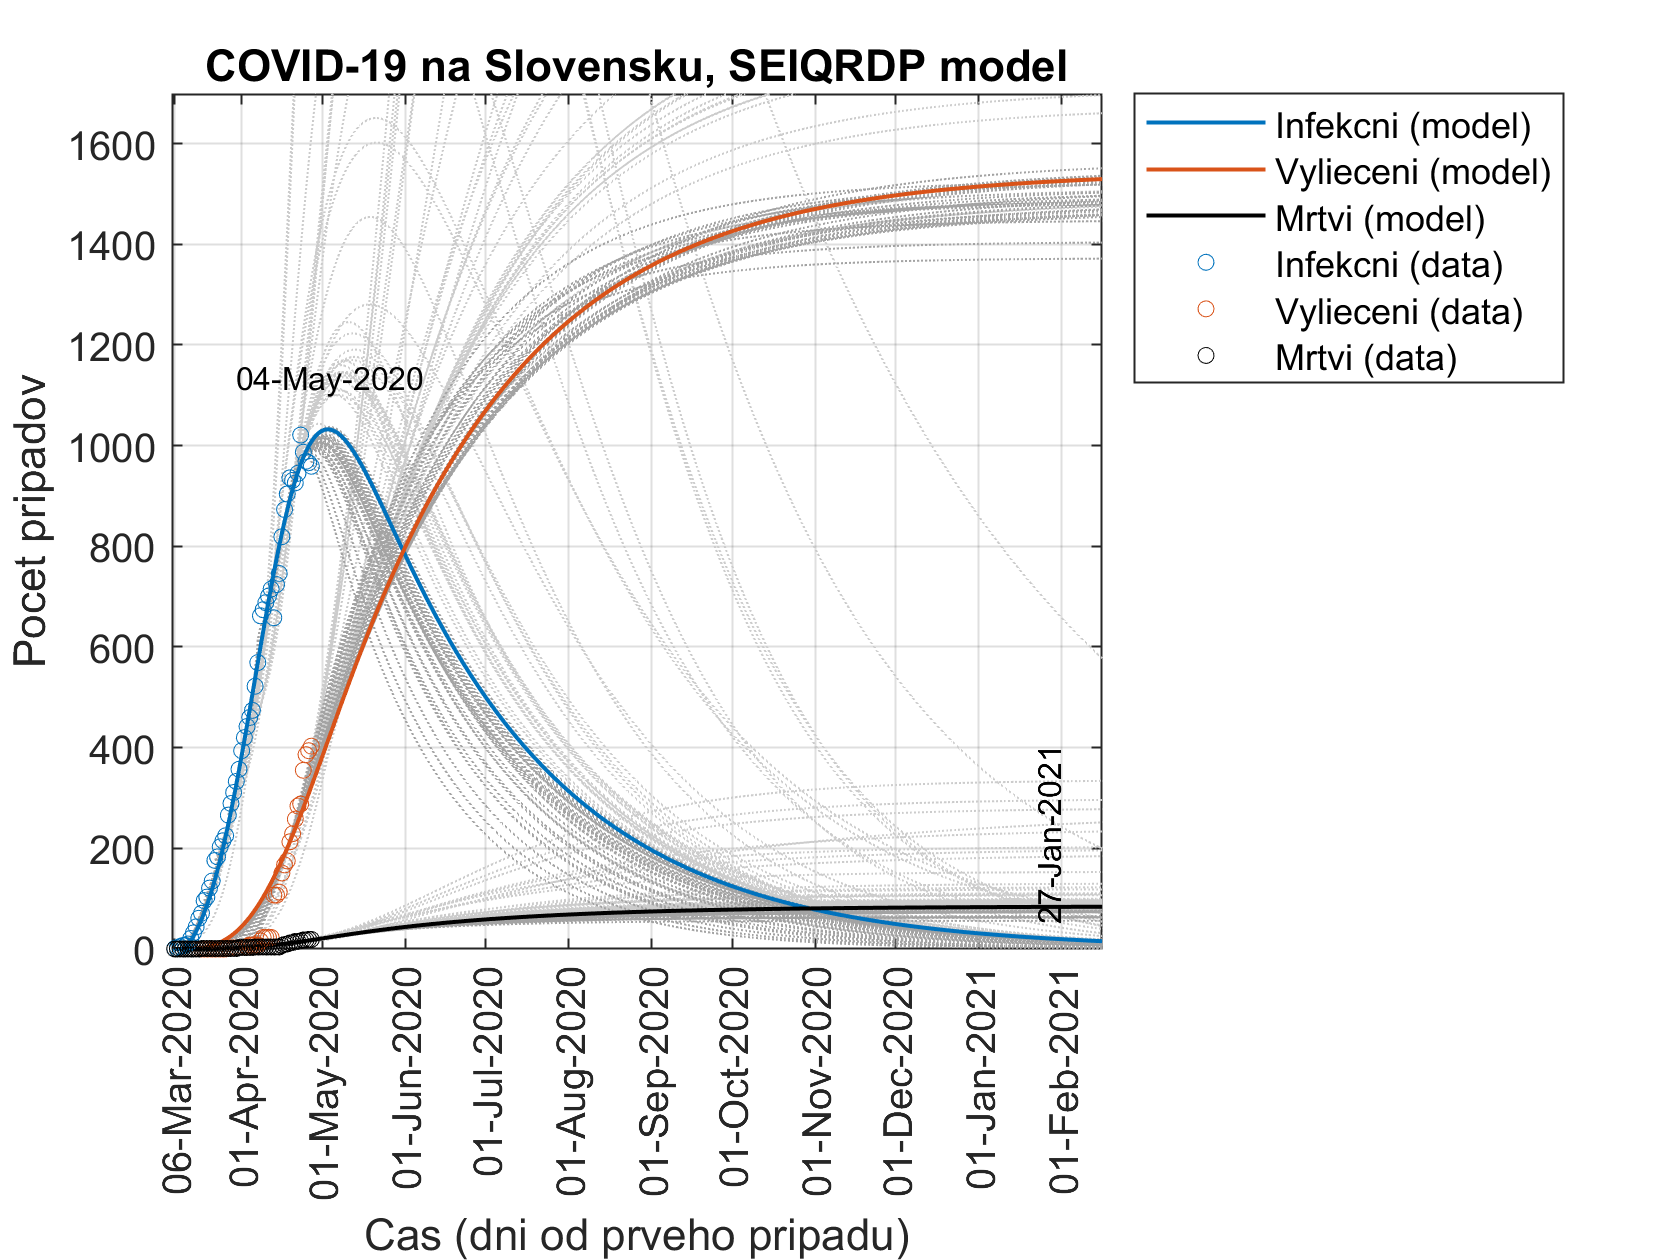
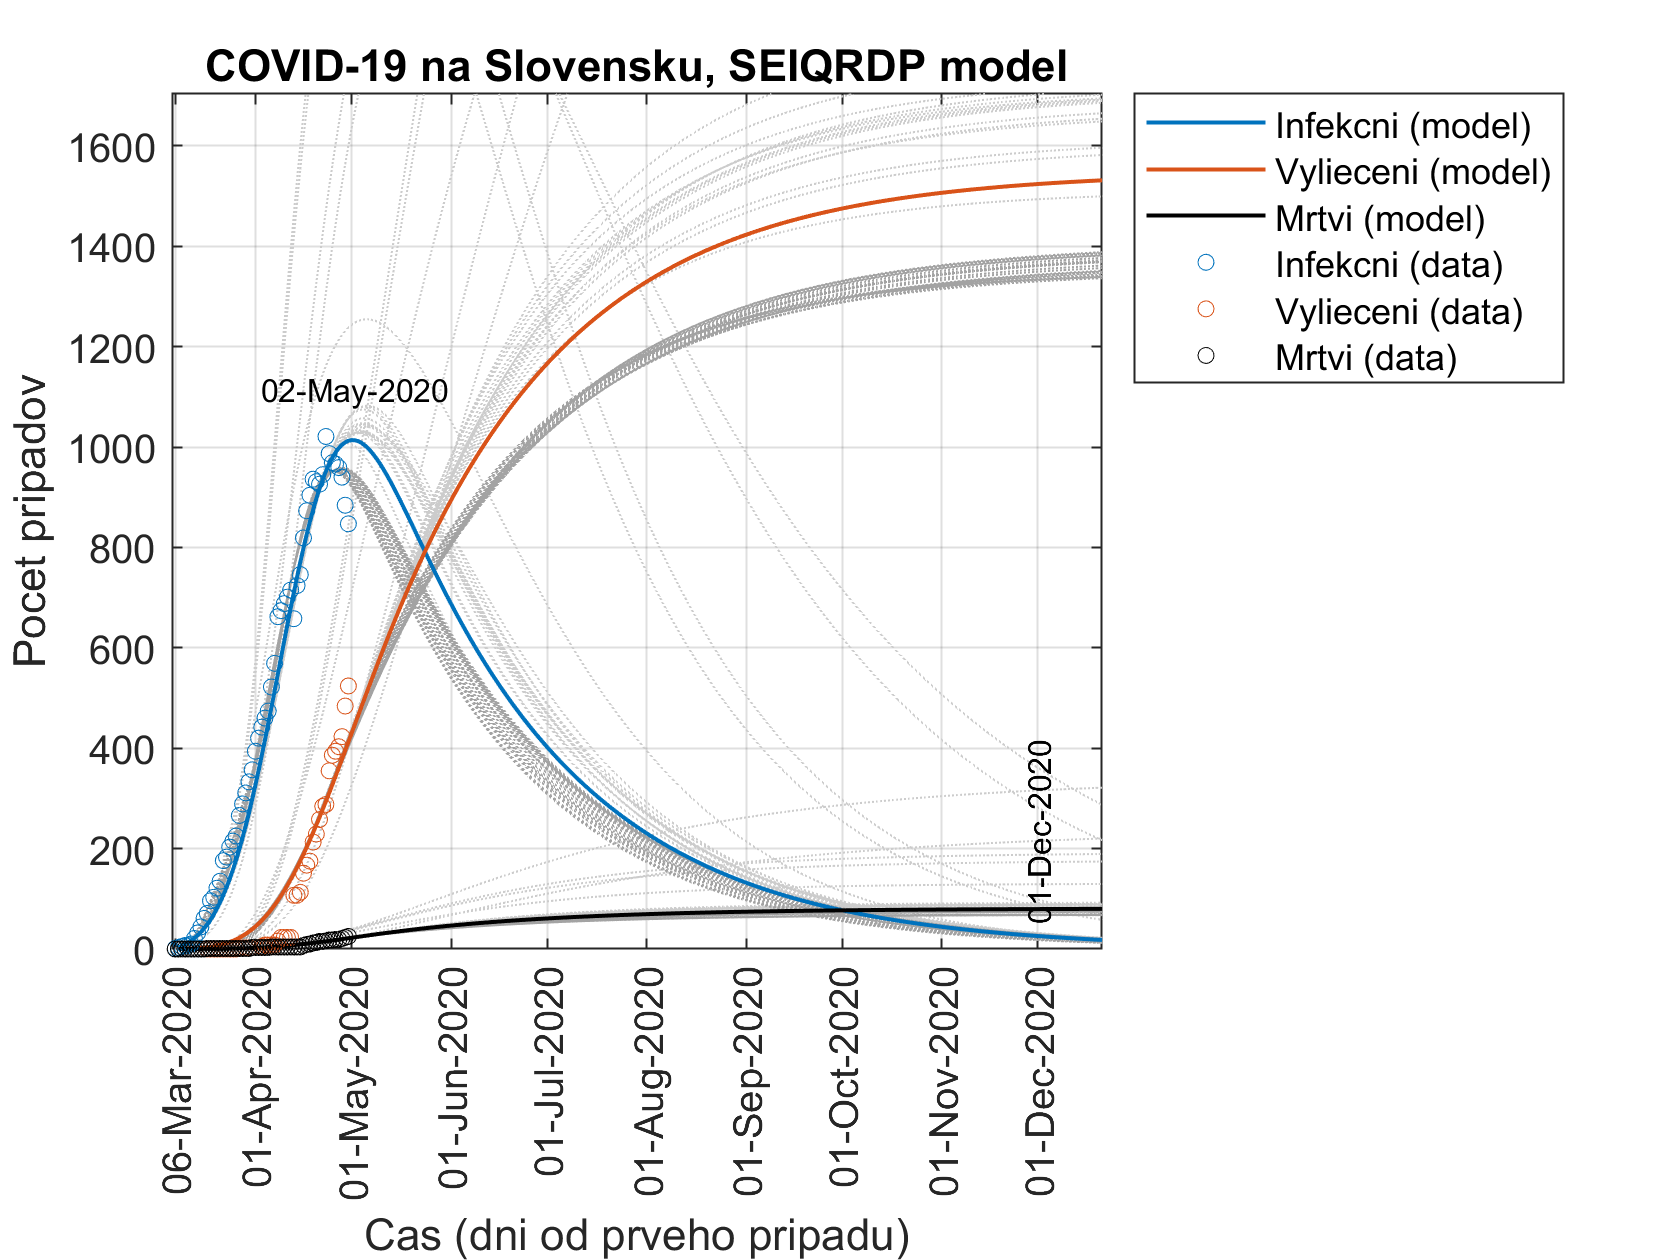
DAily update

diff --git a/SEIQRDP_ID.m b/SEIQRDP_ID.m
@@ -22,7 +22,7 @@ fitPrev=inf;
 fitBeginBest=1;
 
 
-fitTestBegin=1;
+fitTestBegin=4;
 fitTestSpan=31;
 
 %fitTestSpan=31;

diff --git a/SEIQRDP_ID2.m b/SEIQRDP_ID2.m
@@ -23,7 +23,7 @@ fitBeginBest=1;
 
 
 fitTestBegin=1;
-fitTestSpan=31;
+fitTestSpan=21;
 
 %fitTestSpan=31;
 
